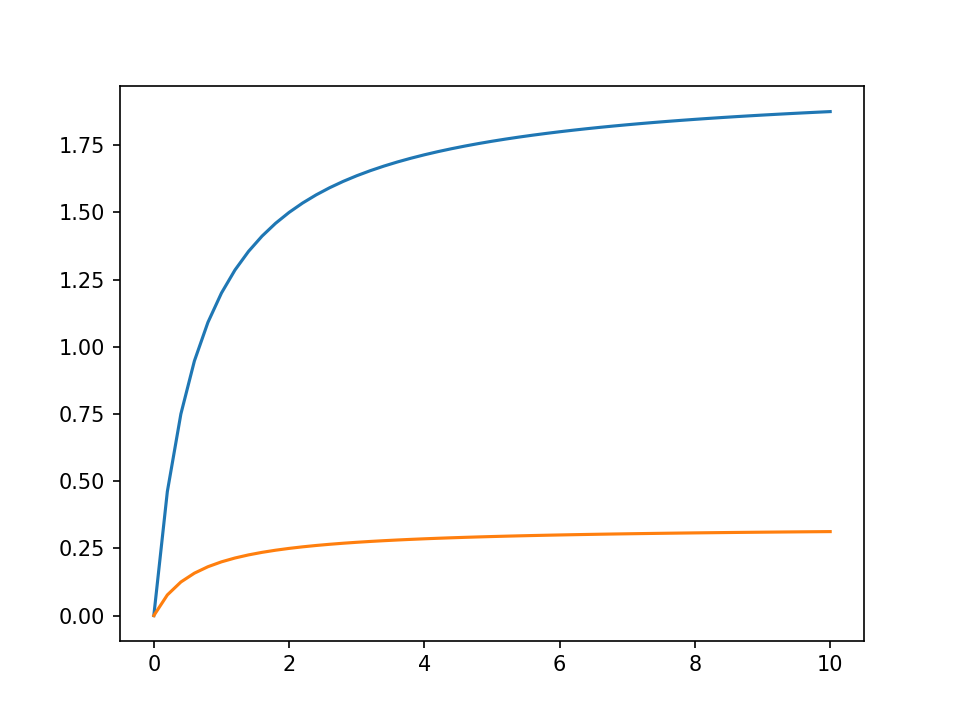
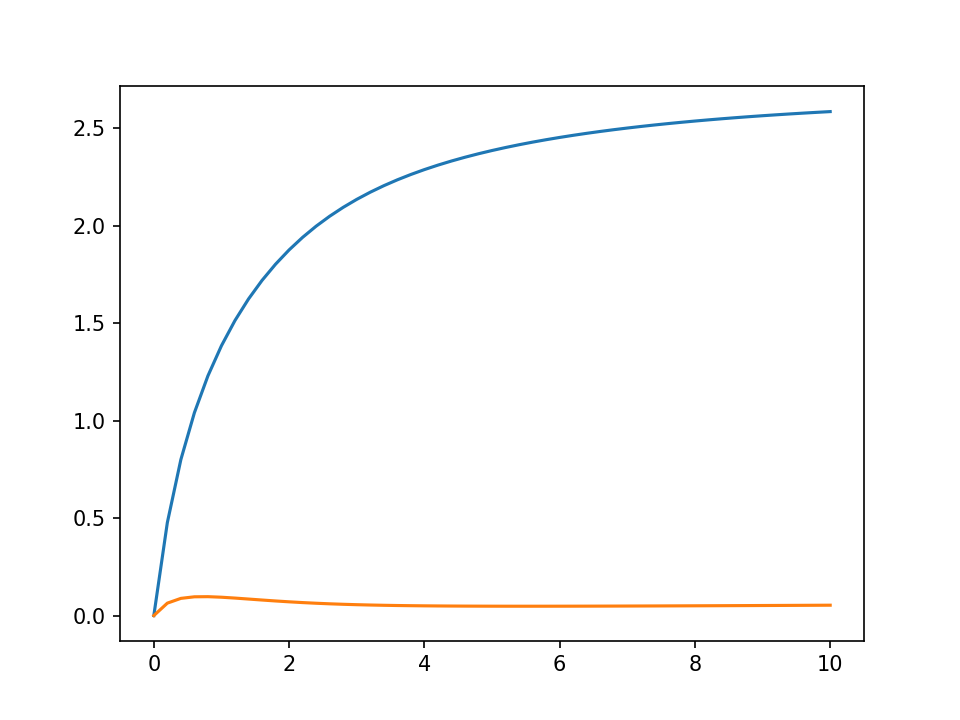
Fix

diff --git a/crop.IAST_orig.py b/crop.IAST_orig.py
@@ -12,7 +12,8 @@ import seaborn as sns
 # %%
 # File path
 # %%
-f_path = 'res_IAST_orig'
+#f_path = 'res_IAST_orig'
+f_path = 'res_oriIAST24081616'
 f_path = 'res_oriIAST24081616'
 #base_path = os.getcwd()
 base_path = os.path.dirname(__file__)
@@ -85,7 +86,7 @@ print(v_list)
 print(k_list)
 
 di_CPUmin = {}
-di_CPUmin['velocity (m/s)'] = v_list
+di_CPUmin['MTC (1/s)'] = k_list
  
 #print(input_list)
 
@@ -130,7 +131,7 @@ countt = 0
 for kk, cpuu in zip(k_list, CPU_minu_mat):
     di_CPUmin[str(kk)] = cpuu
 df_CPUmin = pd.DataFrame(di_CPUmin)
-df_CPUmin.set_index(keys=['velocity (m/s)'], inplace=True, drop=True)
+df_CPUmin.set_index(keys=['MTC (1/s)'], inplace=True, drop=True)
 print(df_CPUmin)
 
 os.chdir(base_path)
@@ -176,7 +177,7 @@ print(pkl_conv_test)
 
 CONV_mat = np.zeros([len(v_list),len(k_list)])
 di_CONV = {}
-di_CONV['velocity (m/s)'] = v_list
+di_CONV['MTC (1/s)'] = k_list
 
 CONV_list = []
 ind_list_pkl = []
@@ -207,9 +208,7 @@ for pkk,inpp in zip(pkl_list, input_list_pkl):
     ind_list_pkl.append([i_locate, j_locate])
     CONV_mat[i_locate, j_locate] = conv_tmp
 
-
 print(CONV_mat)
-
 os.chdir(base_path)
 # %%
 CPU_av = np.sum(np.sum(CPU_minu_mat*CONV_mat))

diff --git a/massonly_binery_wOrig_IAST.py b/massonly_binery_wOrig_IAST.py
@@ -15,9 +15,9 @@ import pickle
 
 # %%
 L = 1               # (m)
-v = 0.05             # (m/sec)
+v = 0.01             # (m/sec)
 N = 101              # -
-k_mass = [0.1, 0.1] # (1/sec) mass transfer coefficient
+k_mass = [0.001, 0.001] # (1/sec) mass transfer coefficient
 D_dif = 1E-6        # (m^2/sec) axial dispersion coeffic.
 
 # %%
@@ -148,7 +148,7 @@ q2_init = q_scalar[:,1]
 # Solve PDE
 tic = time.time()
 y0 = np.concatenate((C1_init, C2_init, q1_init, q2_init))
-t_test =np.linspace(0,800,8001)
+t_test =np.linspace(0,0.5,21)
 y_res = odeint(massbal, y0, t_test)
 toc = time.time() - tic
 
@@ -160,8 +160,8 @@ toc = time.time() - tic
 now = datetime.now()
 now_date  = now.date()
 #print('CPU time : ', toc/60, 'min')
-fnamCPU = 'run'+ str(now.date())+'_01.txt'
-fnamPick = 'run'+ str(now.date())+'_01.pkl'
+fnamCPU = 'res'+ str(now.date())+'_01.txt'
+fnamPick = 'res'+ str(now.date())+'_01.pkl'
 
 f = open(fnamCPU, 'w')
 f.write(str(now) + '\n{0:.3f} min'.format(toc/60))
